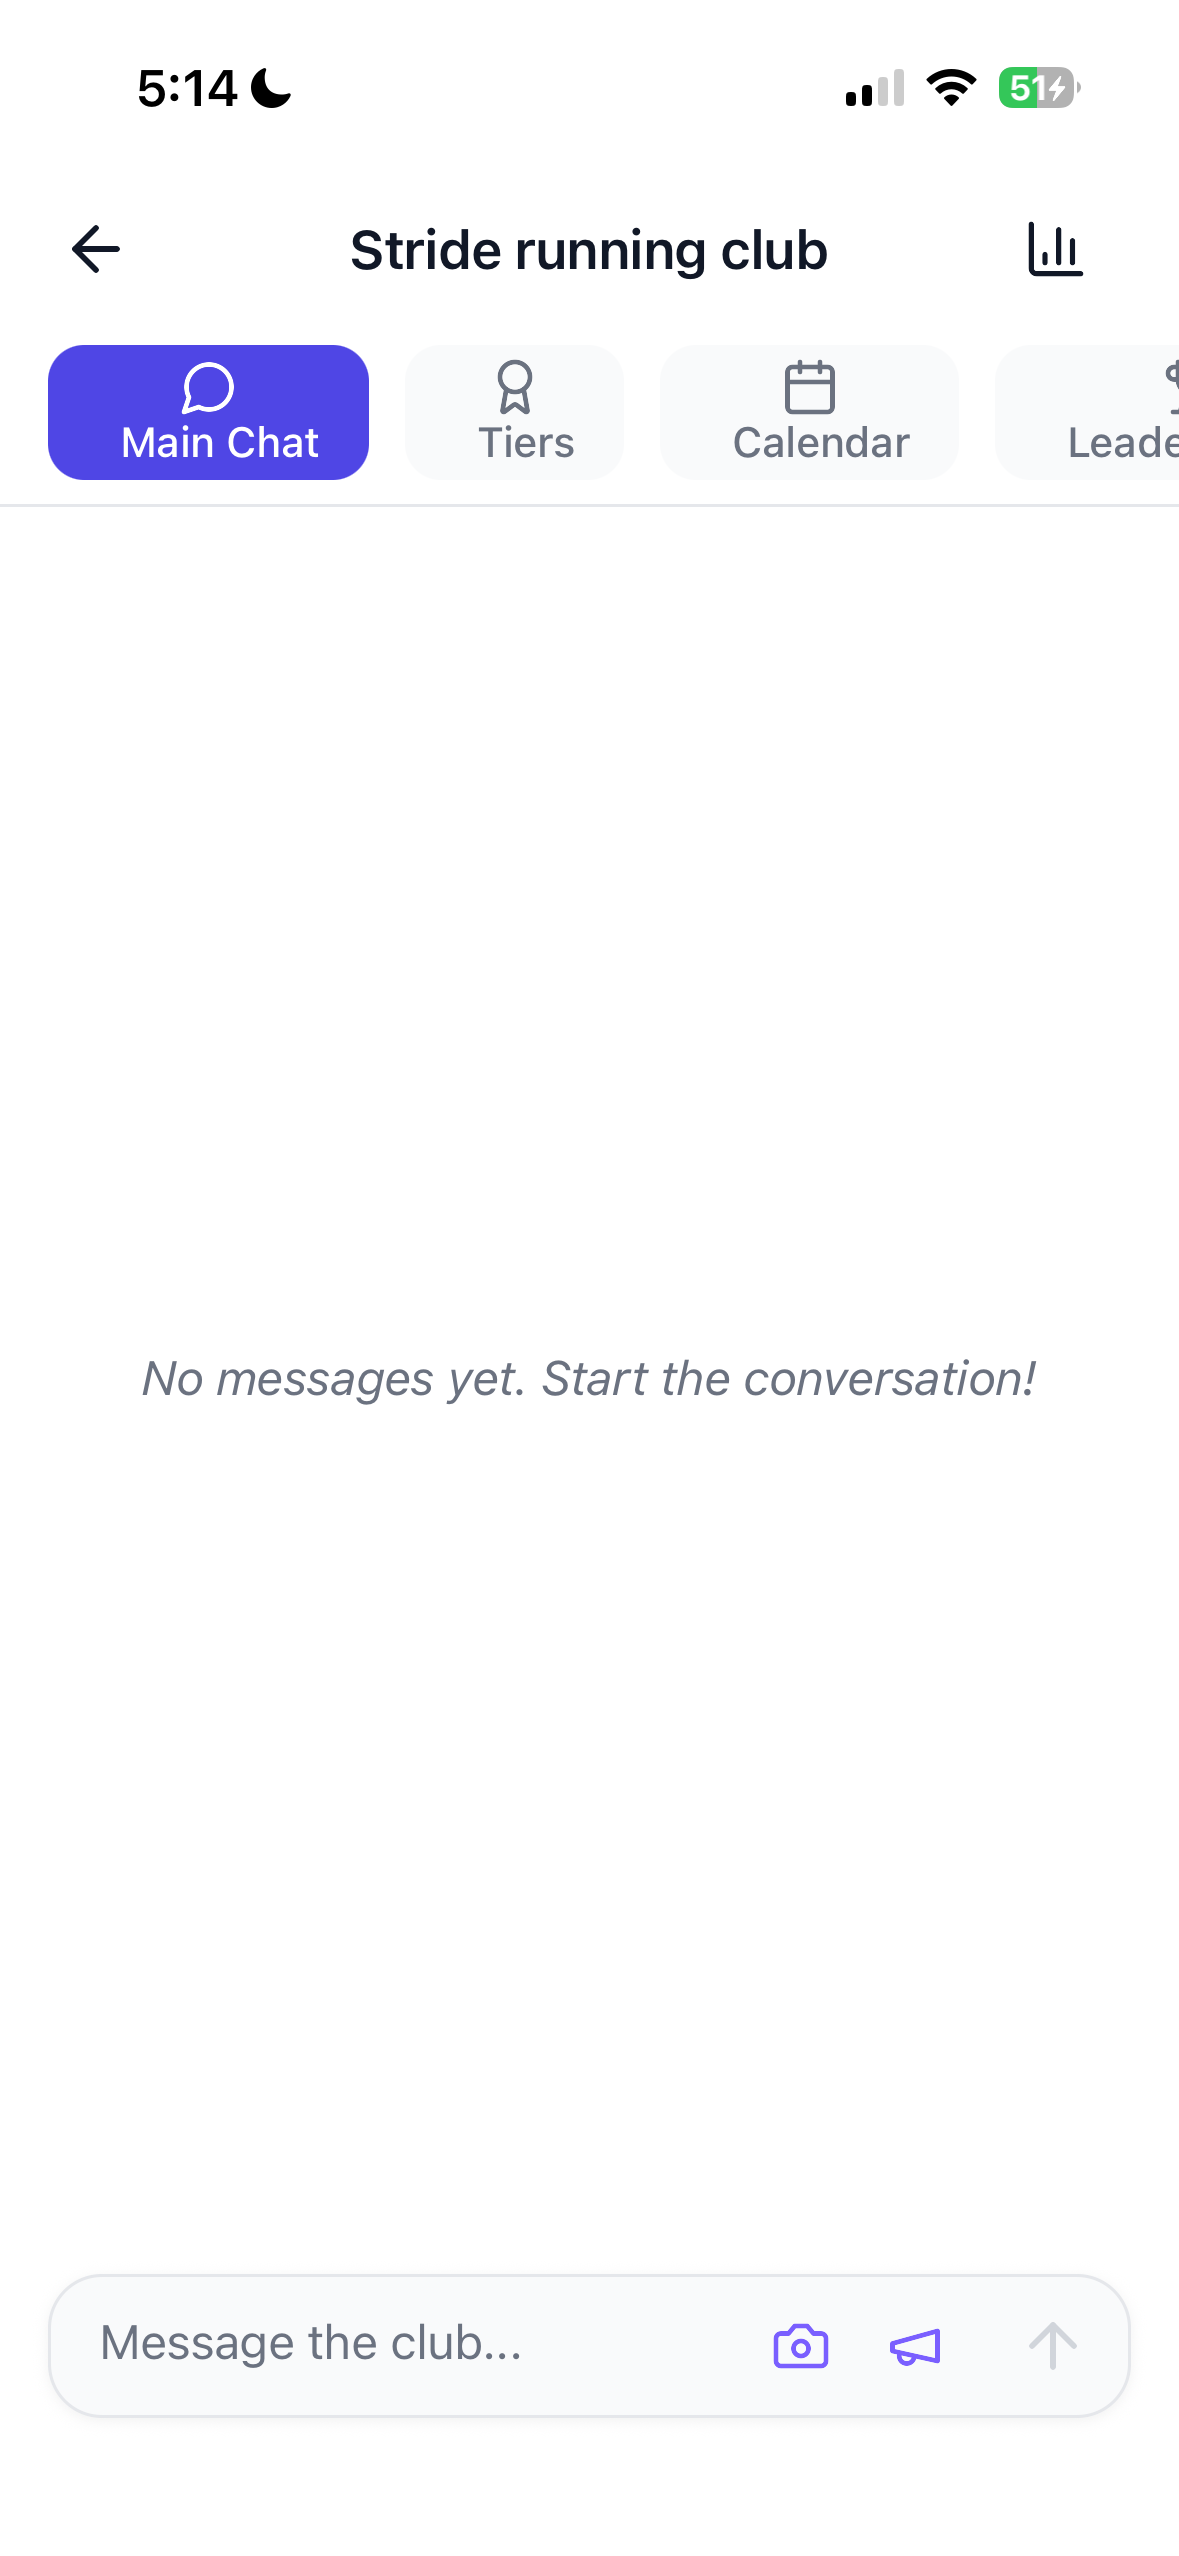
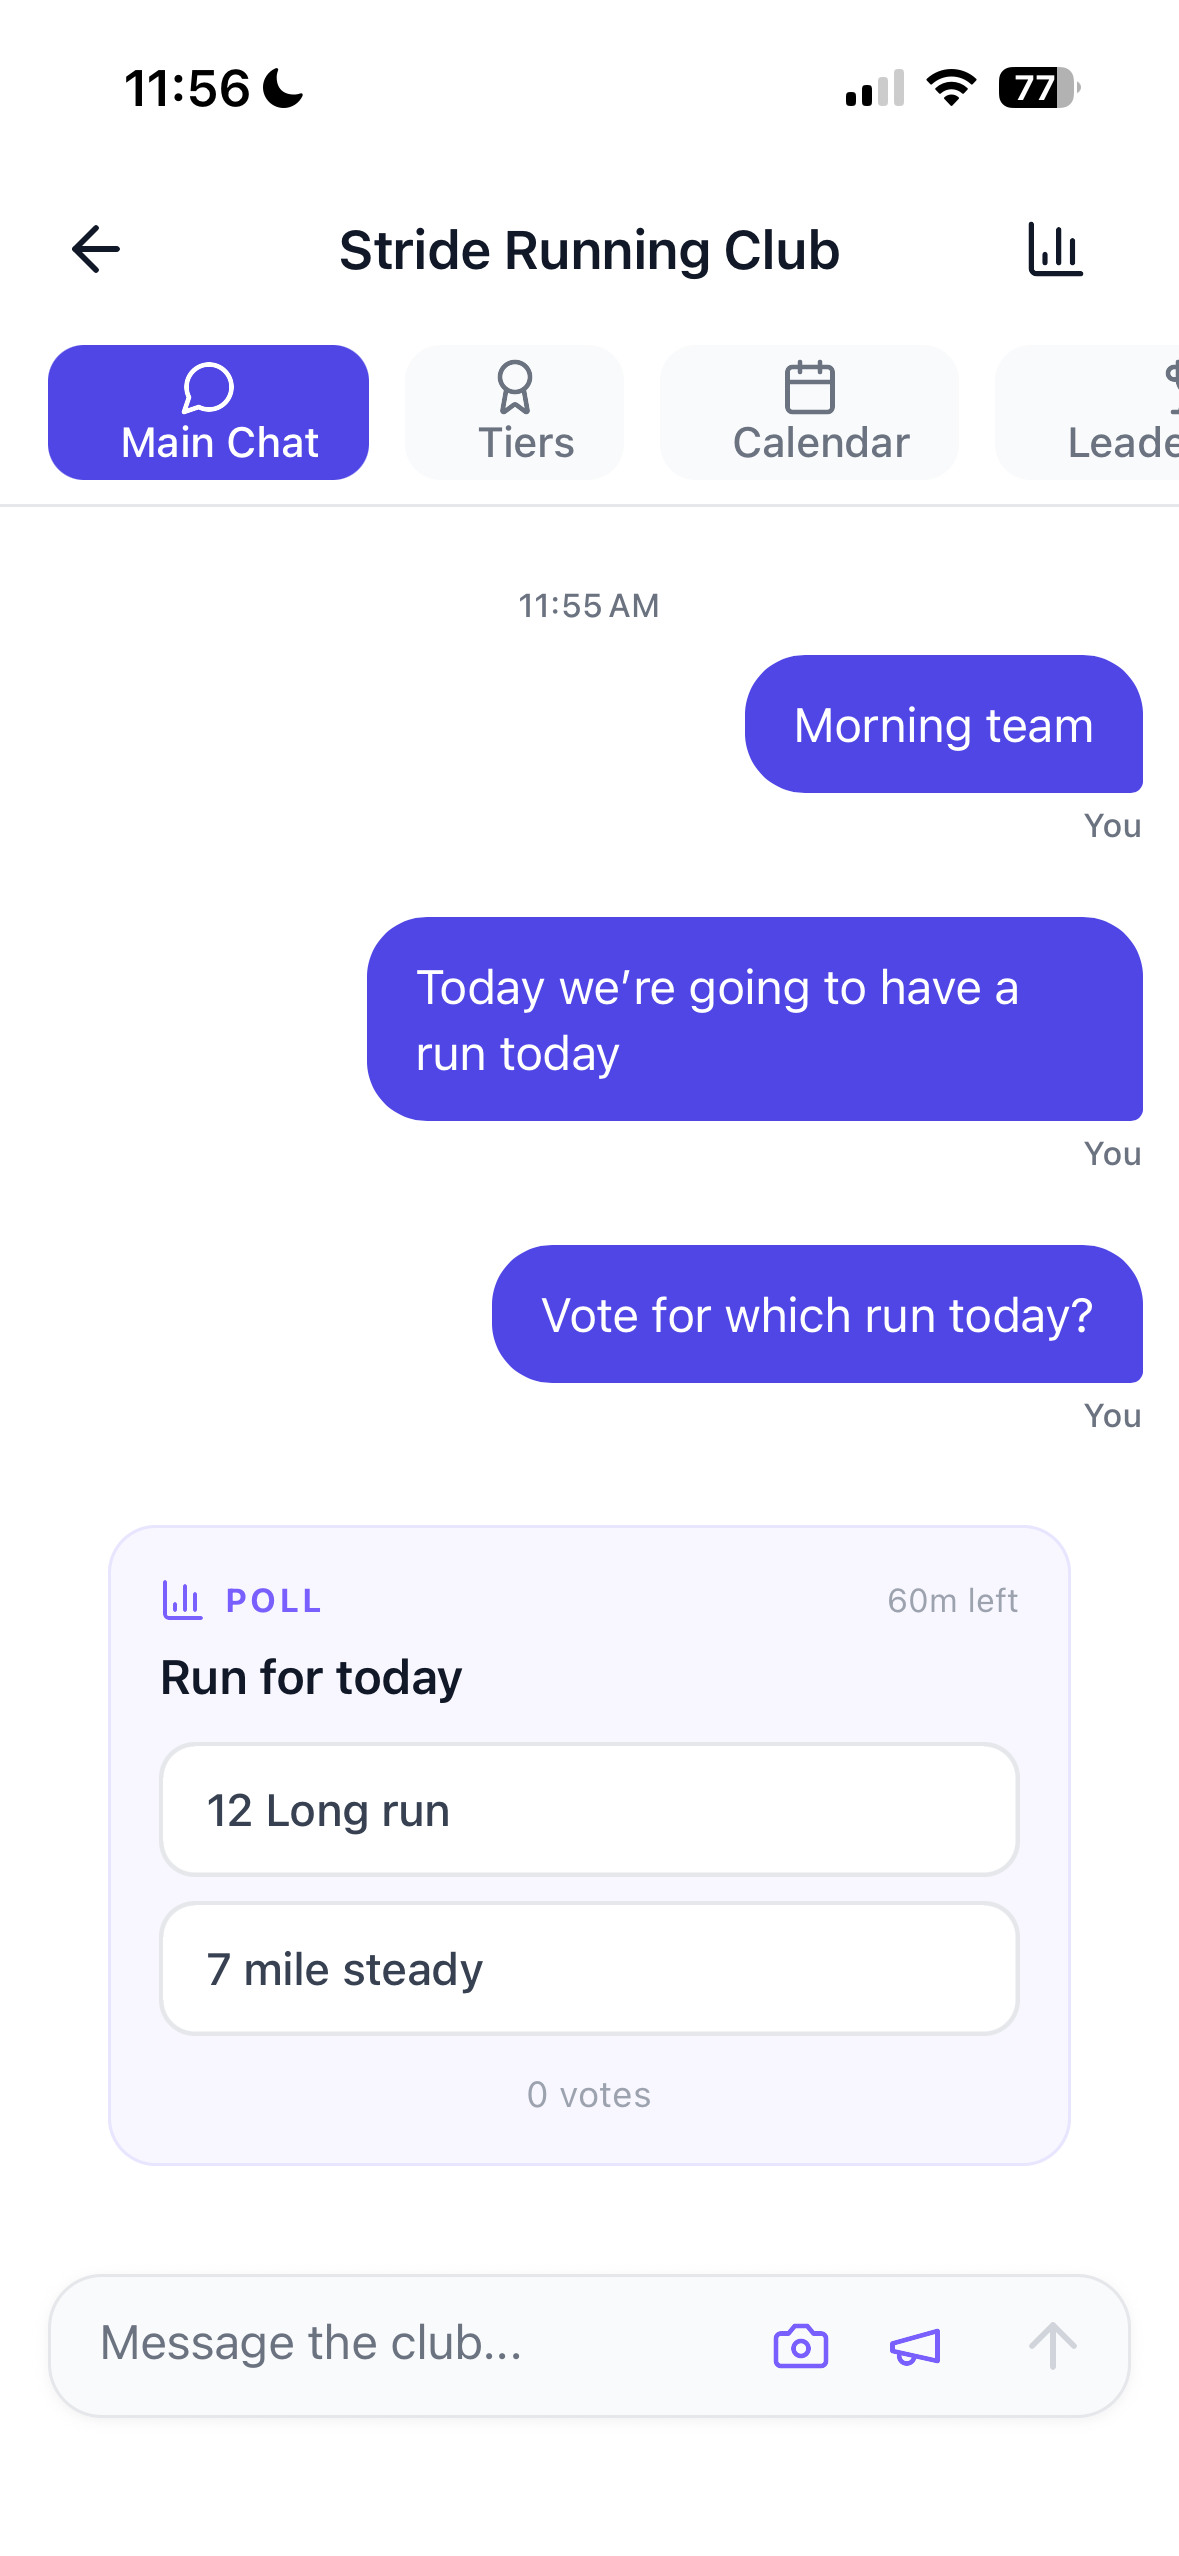
Show populated club main chat screenshot on coaches page
Replace the empty club-chat.png with the real main-chat screen (team
messages + a run poll) and cache-bust the img so visitors see it.

diff --git a/for-coaches.html b/for-coaches.html
@@ -198,7 +198,7 @@
 
       <article class="coach-feature">
         <figure class="phone capability-phone coach-feature-phone">
-          <img src="club-chat.png" loading="lazy" decoding="async" alt="Stride club main chat for the whole team">
+          <img src="club-chat.png?v=2" loading="lazy" decoding="async" alt="Stride club main chat for the whole team">
         </figure>
         <div class="coach-feature-copy">
           <span class="capability-label">Chat &amp; announcements</span>
